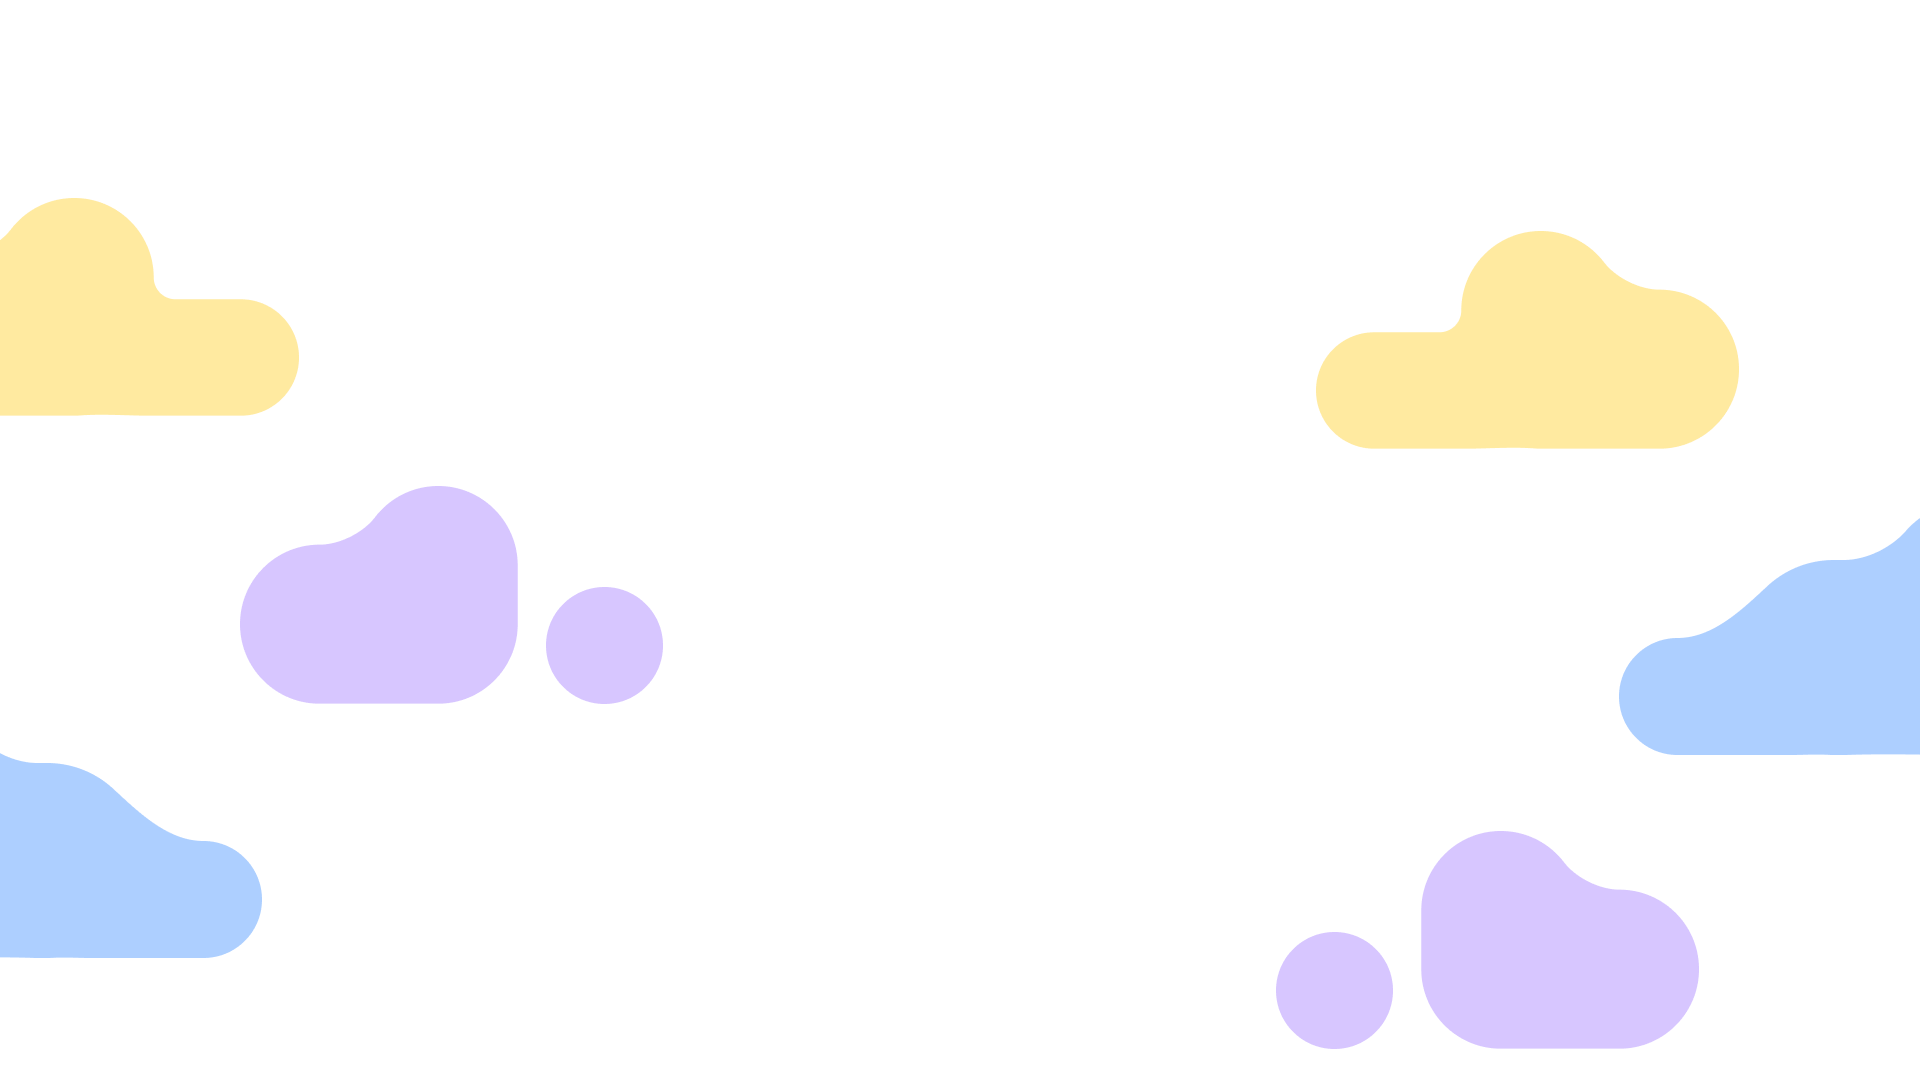
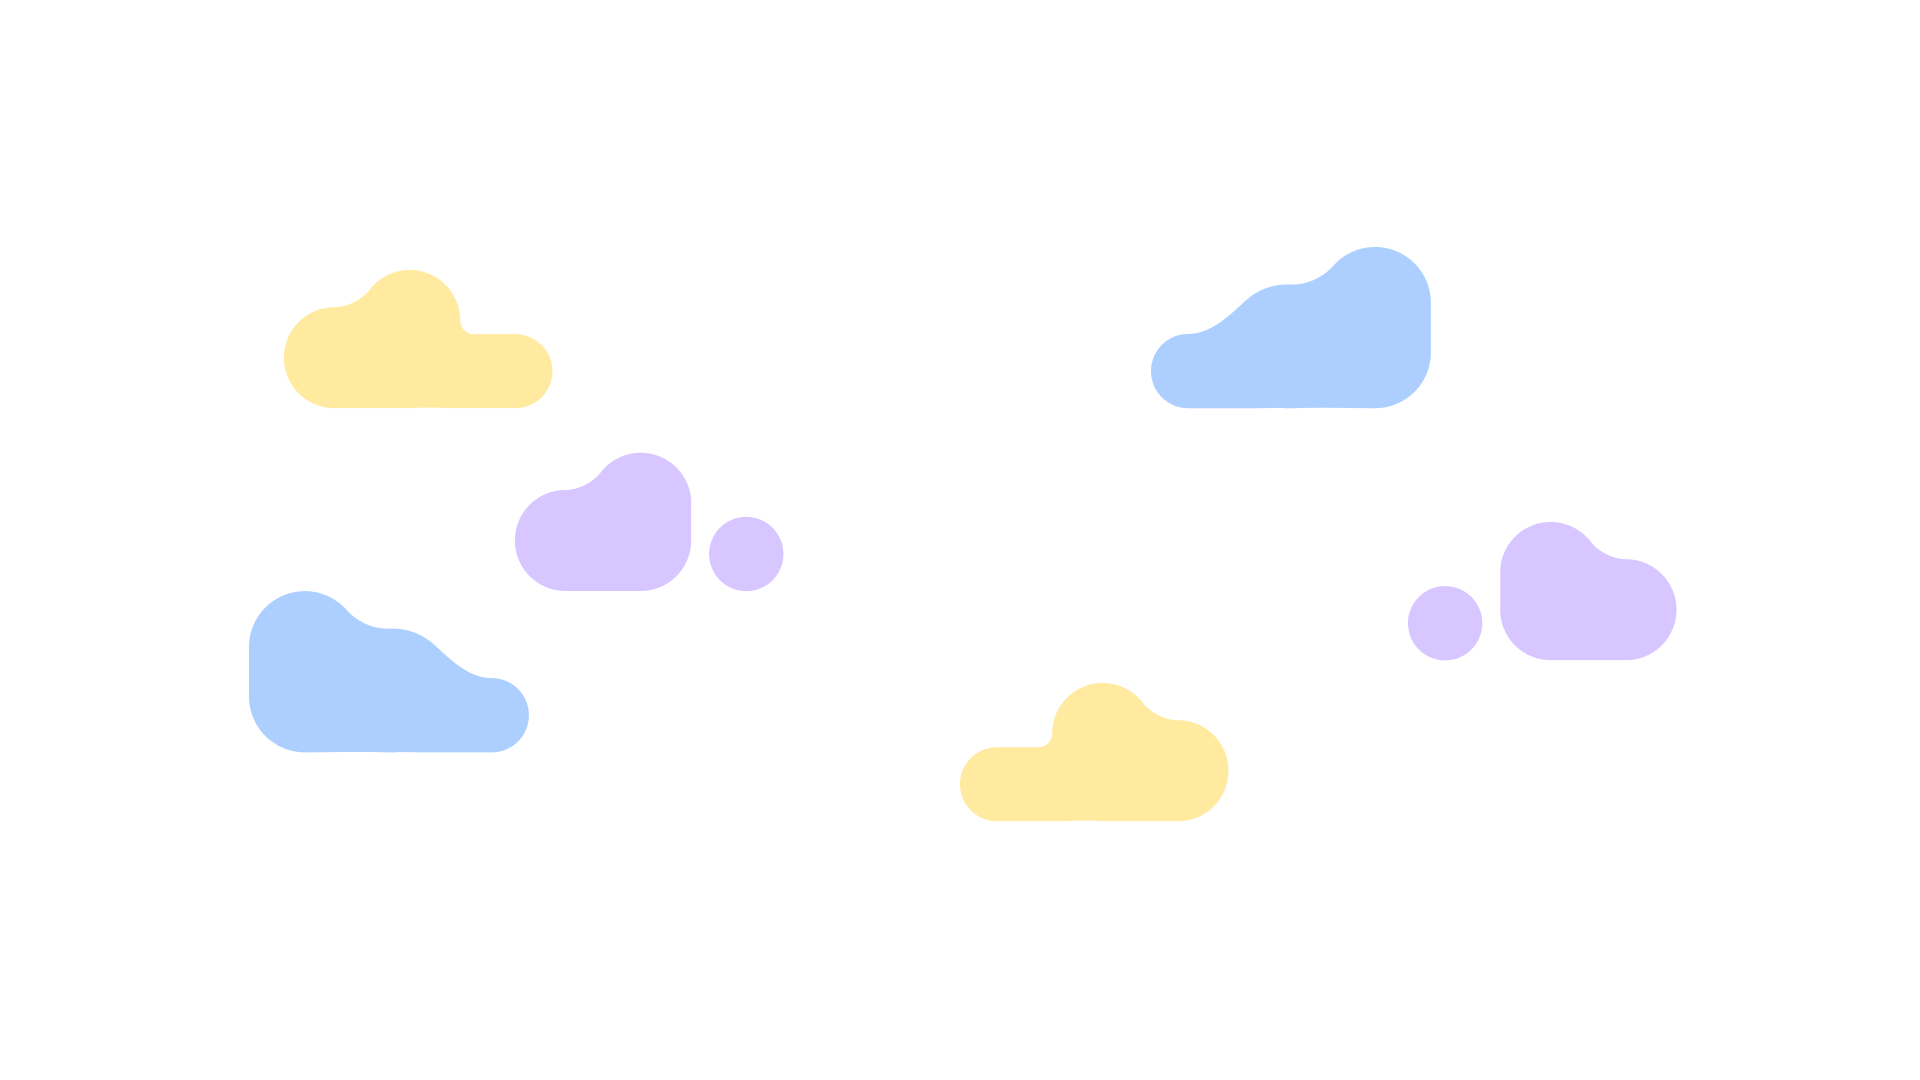
Minor Changes

diff --git a/Home/home.css b/Home/home.css
@@ -33,7 +33,7 @@ html {
     } */
     .menuContainer {
         transition: 500ms;
-        right: -15vw;
+        right: -30vh;
         position:absolute;
         display: flex;
         flex-direction: column;
@@ -65,27 +65,39 @@ html {
     40% { opacity: 0%;}
     50% { opacity: 100%;}
 }
+@keyframes cloud{
+    0% {transform: translateX(-100vw);}
+    30% {transform: translateX(0);}
+    20% {background-position-x: 0px;}
+    80% {background-position-x: 1850px;}
+    70% {transform: translateX(0); }
+    100% {transform: translateX(100vw); background-position-x: 1850px;}
+}
+@keyframes wipe {
+    0% {clip-path: inset(0% 100% 0% 0%);}
+    100% {clip-path: inset(0% 0% 0% 0%);}
+}
 .banner{
-    background-image: url("../Images/bannerBackground.png") ;
-    background-size:cover;
+    width: 100%;
     display: flex;
     align-items: center;
     justify-content: center;
-    /* padding-top: 50px; */
     height: 100%;
     .left {
         display: flex;
+        padding: 10px;
         justify-content: center;
-        max-width: 40%;
+        max-width: 50%;
         .logo {
             mix-blend-mode: screen;
             width: 100%;
+            z-index: -10;
         }
     }
     .right {
-        padding: 50px;
+        padding: 20px;
         text-align: left;
-        max-width: 500px;
+        max-width: 400px;
         h3, p {
             margin: 5px;
             font-size: small;
@@ -95,7 +107,7 @@ html {
             font-size: x-large;
         }
     }
-    .bottom {
+    .top {
         left: 10;
         position: absolute;
         top: 10;
@@ -104,7 +116,9 @@ html {
         flex-direction: row;
         justify-content: center;
         align-items: center;
+        gap: 5px;
         a {
+            transition: 200ms;
             font-size: x-small;
             justify-content: center;
             align-items: center;
@@ -114,16 +128,61 @@ html {
             /* background-color: grey; */
         }
         a:hover {
-            color: #4a9df6;
-            mix-blend-mode: color-dodge;
+            transform: translateY(-5px);
+            animation: fih 800ms linear;
         }
         a img {
             left: 0;
             width: 2em;
             margin: auto;
         }
+        .line {
+            width: 10vw;
+            height:2px;
+            background-color: white;
+            animation: wipe 2s cubic-bezier(0.075, 0.82, 0.165, 1);
+        }
+    }
+    .clouds {
+        z-index: -5;
+        width: 100vw;
+        height: 100%;
+        position: absolute;
+        animation: cloud 10s infinite linear;
+        background-image: url("../Images/bannerBackground.png") ;
+        background-size:cover;
+        background-repeat: repeat-x;
+        animation: cloud 70s infinite ease-in-out;
     }
 }
 .content1{
     height: 100%;
+    display: flex;
+    flex-direction: row;
+    .left {
+        background-color: black;
+        width: 100%;
+        height: 100%;
+    }
+    .right {
+        background-color: white;
+        width: 100%;
+        height: 100%;
+    }
+    
 }
+
+
+/* @media (min-width=480px) {
+    @keyframes cloud {
+        0% {transform: translateX(-100vw);}
+        30% {transform: translateX(0);}
+        20% {background-position-x: 0px;}
+        80% {background-position-x: 100px;}
+        70% {transform: translateX(0); }
+        100% {transform: translateX(100vw); background-position-x: 1850px;}    
+    }
+    .clouds {
+        animation: cloud 5s linear infinite;
+    }
+} */

diff --git a/Home/home.html b/Home/home.html
@@ -16,12 +16,14 @@
             <a href="#">Contacts</a>
         </div>
     </div>
-    <div class="banner">
-        <div class="bottom">
-            <a href=""><img src="../Images/pageicon.ico" alt="" srcset=""></a>
-            <a href=""><img src="../Images/linkedInIcon.svg" alt="" srcset="" style="filter: hue-rotate(70deg);"></a>
+    <div class="banner" id="banner">
+        <div class="top">
+            <a href=""><img src="../Images/logoLinkedIn.svg" alt="" srcset=""></a>
+            <a href=""><img src="../Images/logoInsta.svg" alt="" srcset=""></a>
+            <a href=""><img src="../Images/logoX.svg" alt="" srcset=""></a>
+            <a href="https://discord.gg/9Ge59TT"><img src="../Images/logoDiscord.svg" alt="" srcset=""></a>
+            <div class="line"></div>
         </div>
-
         <div class="left">
             <img src="../Images/NykVerseSig.gif" alt="" srcset="" class="logo">
         </div>
@@ -30,9 +32,15 @@
             <h3>Create, Explore, Inspire</h3>
             <p>Artist, Animator, Designer, Producer, Writer, Programmer, Multimedia</p>
         </div>
+        <div class="clouds">
+        </div>
     </div>
-    <div class="content1">
-        <h1>Hello</h1>
+    <div class="content1" id="content1">
+        <div class="left"><h1>Recent Project</h1></div>
+        <div class="right"></div>
+    </div>
+    <div class="bottomBar">
+        
     </div>
 </body>
 </html>